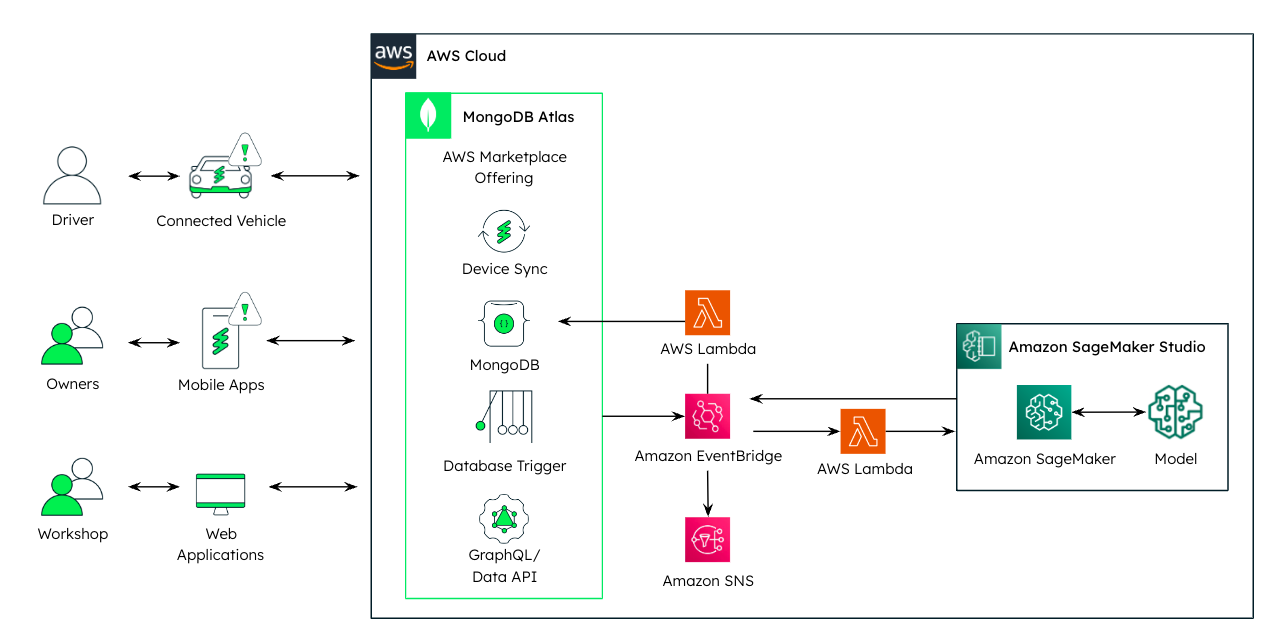
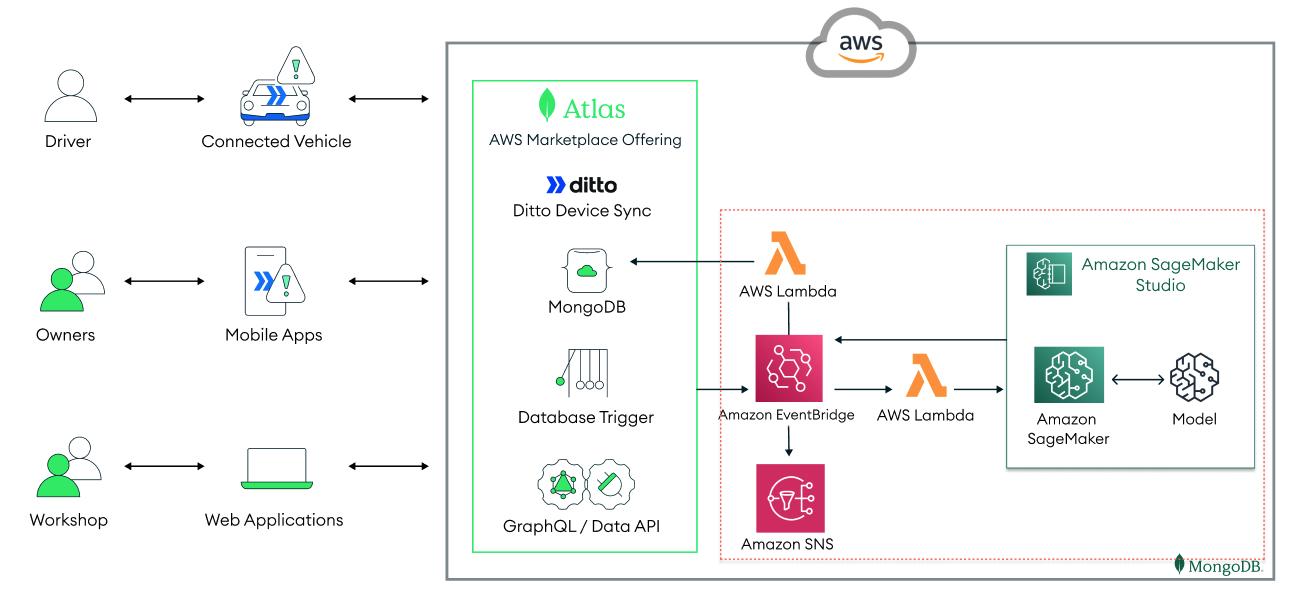
Upload of new layout of architecture EndtoEnd and EndToEnd2

diff --git a/Demo_Instructions.md b/Demo_Instructions.md
@@ -3,7 +3,7 @@
 Now that we’ve set up the MongoDB Atlas cloud backend, the Amazon SageMaker Integration, connected the vehicle and the mobile app, let’s walk through the demo setup and architecture to bring it all together.
 
 
-![image](media/EndToEnd2.png) <!--+ Ditto -->
+![image](media/EndToEnd2.png)
 
 *Quick Take* 
 
